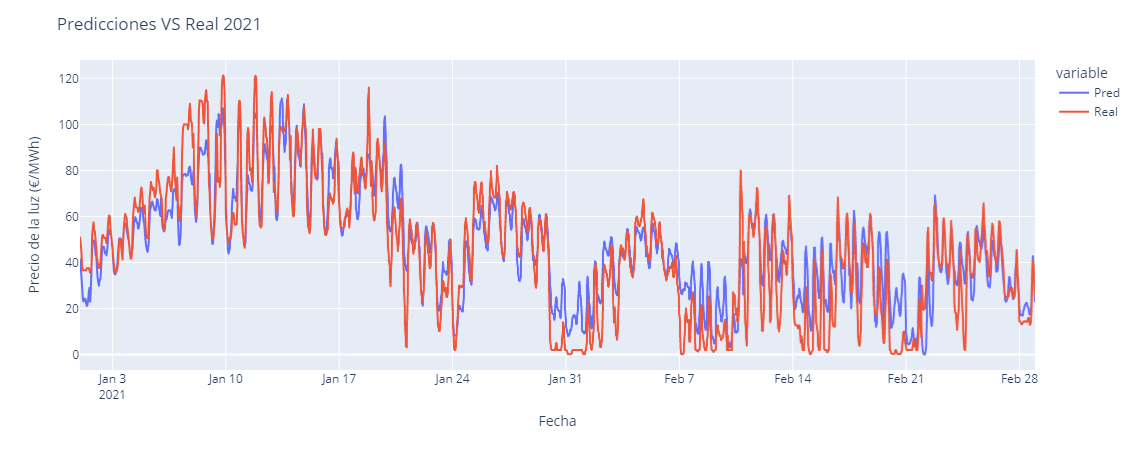
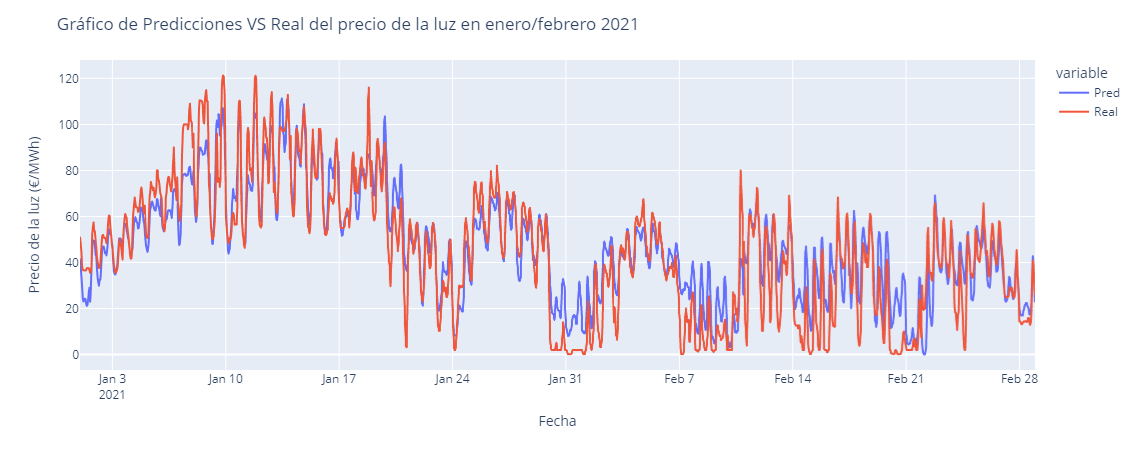
Actualizacion reentrenamiento

Changed region(s): [[0.0308, 0.0311, 0.5546, 0.0933]]

diff --git a/Reentrenamiento_2025/Reentreno.md b/Reentrenamiento_2025/Reentreno.md
@@ -1,18 +1,82 @@
-# Reentrenamiento de modelos
-Hace poco se cumplirán 4 años desde que presenté mi TFM. El objetivo era la predicción del precio de la luz en España a nivel horario. En el presente estudio, evidenciaré la necesidad de reentrenamiento de modelos, el concepto de data drift y cómo varían las correlaciones.
+# Reentrenamiento de modelos (Poner nombre más atractivo) 
+
+## 1. Introducción
+
+- Una vez que diseñamos y ponemos en producción cierto modelo de machine learning, ¿podemos despreocuparnos y asumir que obtendremos buenos resultados siempre?
+- ¿Es posible que nuestro modelo se degrade con el tiempo y sea necesario un reentrenamiento?
+
+Si alguna vez habéis creado y puesto en producción un modelo de machine learning, las preguntas anteriores os sonarán. Todos sabemos que los modelos se degradan en el tiempo y que no podemos poner un modelo en producción y despreocuparnos. El objetivo del siguiente estudio es:
+1. Demostrar la necesidad de monitorear las métricas de un modelo para ver la degradación.
+2. Demostrar la necesidad de este reentrenamiento.
+3. Cuantificar la degradación de un modelo tras un determiando paso de tiempo.
+
+Hace poco se cumplirán 4 años desde que presenté mi TFM. El objetivo era la predicción del precio de la luz en España a nivel horario. En el presente estudio, evidenciaré la necesidad de reentrenamiento de modelos, el concepto de data drift y cómo varían las correlaciones de las variables explicativas con la variable objetivo con el tiempo
 
 Para realizar este análisis, se van a realizar una serie de comparaciones.
 1. Modelo de predicción del precio de la luz en los dos primeros meses de 2021
 2. Usando el modelo anterior, predicción del precio de la luz en los dos primeros meses de 2025
 3. Reentrenamiendo del modelo
 
-## 1. Modelo predicción 2021
+## 2. Modelo predicción 2021
+
+El objetivo del TFM fue el de la predicción del precio de la luz a nivel horario en España. Para realizar la comparación, nos quedamos con los dos primeros meses del año para que la comparación sea directa. Tras una serie de pruebas, se obtuvo un modelo de XGBoost. Las métricas arrojadas por este modelo en los dos primeros meses de 2021 fueron de un WAPE del 19.52%. Visualmente, se puede ver en el siguiente gráfico.
+
+(Señalar el 19.52%)
 
 ![alt text](https://github.com/caralosal/TFM-Big-Data-Business-Analytics/blob/master/Reentrenamiento_2025/grafico_2021.png?raw=true)
 
 
-## 2. Predicciones 2025 con modelo de 2021
+## 3. Predicciones 2025 con modelo de 2021
 
-## 3. Predicciones 2025 con modelo 2025
+¿Cómo se hubiera comportado este modelo en la actualidad?
+En esta sección, guardamos el modelo de la sección anterior y realizamos predicciones con los datos de enero y febrero de 2025. ¿Qué resultados cabría esperar?
+El modelo anterior hubiese arrojado un 46.78% de WAPE. Esto es igual a decir, que el modelo es, aproximadamente, **2.5 veces peor que en 2021**. Visualmente, se puede ver en el siguiente gráfico.
 
-## 4. Data Drift
+(Señalar el 46.78%)
+
+![alt text](https://github.com/caralosal/TFM-Big-Data-Business-Analytics/blob/master/Reentrenamiento_2025/grafico_2025_sin_reentrenamiento.png?raw=true)
+
+
+## 4. Predicciones 2025 con modelo 2025
+
+Si realizamos entrenamiento, ¿cómo se hubiera comportado este modelo entrenando con los últimos datos disponibles?
+En esta sección, obtenemos los últimos datos disponibles, entrenamos con ellos y realizamos las predicciones sobre los dos primeros meses de enero y febrero de 2025. ¿Qué resultados cabría esperar?
+Con un reentrenamiento del modelo, volvemos a recuperar las métricas obtenidas del mejor modelo de 2021, un WAPE del 19.50%
+
+(Señalar el 19.50%)
+
+![alt text](https://github.com/caralosal/TFM-Big-Data-Business-Analytics/blob/master/Reentrenamiento_2025/grafico_2025_reentrenamiento.png?raw=true)
+
+## 5. Data Drift
+
+El objetivo de esta sección es darle sentido a los resultados anteriores. Los resultados del modelo han empeorado sin el reentrenamiento pero, tras el reentrenamiento, han vuelto prácticamente al mismo valor de error que cuando se diseñó (un 19.5%). ¿Cómo ha ocurrido esto?
+Para entenderlo, hay que introducir los siguientes conceptos.
+
+(Hablar concepto data drift y correlaciones)
+
+El modelo entrenó con unos determinados datos en 2021, en el que las variables tenían determinadas relaciones, estas relaciones se han modificado ligeramente, además de que los modelos no son perfectos.
+
+(Hacer gráfico más bonito para visualizar la variación de correlaciones entre 2025 y 2021)
+
+(Concepto de data drift.)
+
+Para visualizarlo, puedes observar los siguientes gráficos:
+
+En primer lugar, analizamos la propia variable objetivo. Aquí encontramos la primera diferencia clave. La media de la variable objetivo ha pasado de 45€/MWh en enero de 2021 a 120€/MWh en enero de 2025. Otra diferencia es la volatilidad, mientras que en 2021 había poca desviación (casi todos los precioes estaban concentrados en su media) en 2025, hay un amplio abanico de precios a lo largo de todo el mes, aumentando mucho la volatilidad 
+
+![alt text](https://github.com/caralosal/TFM-Big-Data-Business-Analytics/blob/master/Reentrenamiento_2025/variable_objetivo.png?raw=true)
+
+Como hemos visto en gráficos de correlaciones anteriores, el precio del gas es una variable muy correlada positiva con la variable objetivo, esto es, cuanto más caro esté el gas, más caro será el precio de la luz. Analizando el siguiente gráfico, se observa una diferencia muy notable en las distribuciones. Las distribuciones están perfectamente separadas de 2021 a 2025, el precio del gas se ha triplicado
+
+![alt text](https://github.com/caralosal/TFM-Big-Data-Business-Analytics/blob/master/Reentrenamiento_2025/gas.png?raw=true)
+
+Otra variable interesante que ha modificado mucho su valor respecto 2021 es el spread del precio. Esta variable representa la diferencia del precio de la luz de una hora a otra, es decir, es una especie de la medida de la volatilidad, ya que recoge la diferencia de precio de una hora y otra. Como vemos, en 2025 hay mucha más volatilidad en estos precios, también relacionado con que los precios son más altos, la variación de precios también está siendo más alto
+
+![alt text](https://github.com/caralosal/TFM-Big-Data-Business-Analytics/blob/master/Reentrenamiento_2025/spread_precio.png?raw=true)
+
+## 6. Conclusiones
+
+Como cabría esperar, el reentrenamiento del modelo y el monitoreo tanto de las variables como de las métricas de performance es algo crítico a la hora de diseñar y mantener un modelo, en el presente estudio se ha demostrado el impacto que puede llegar a tener y se ha cuantificado 
+- Destacar cómo se ha vuelto a obtener las mismas métricas de error con el reentrenamiento que había inicialmente
+- Demostración visual y cuantitativa del efecto de reentreno
+- El data drift es algo que hay que monitorear y tener en cuenta en el mantenimiento de los modelos
